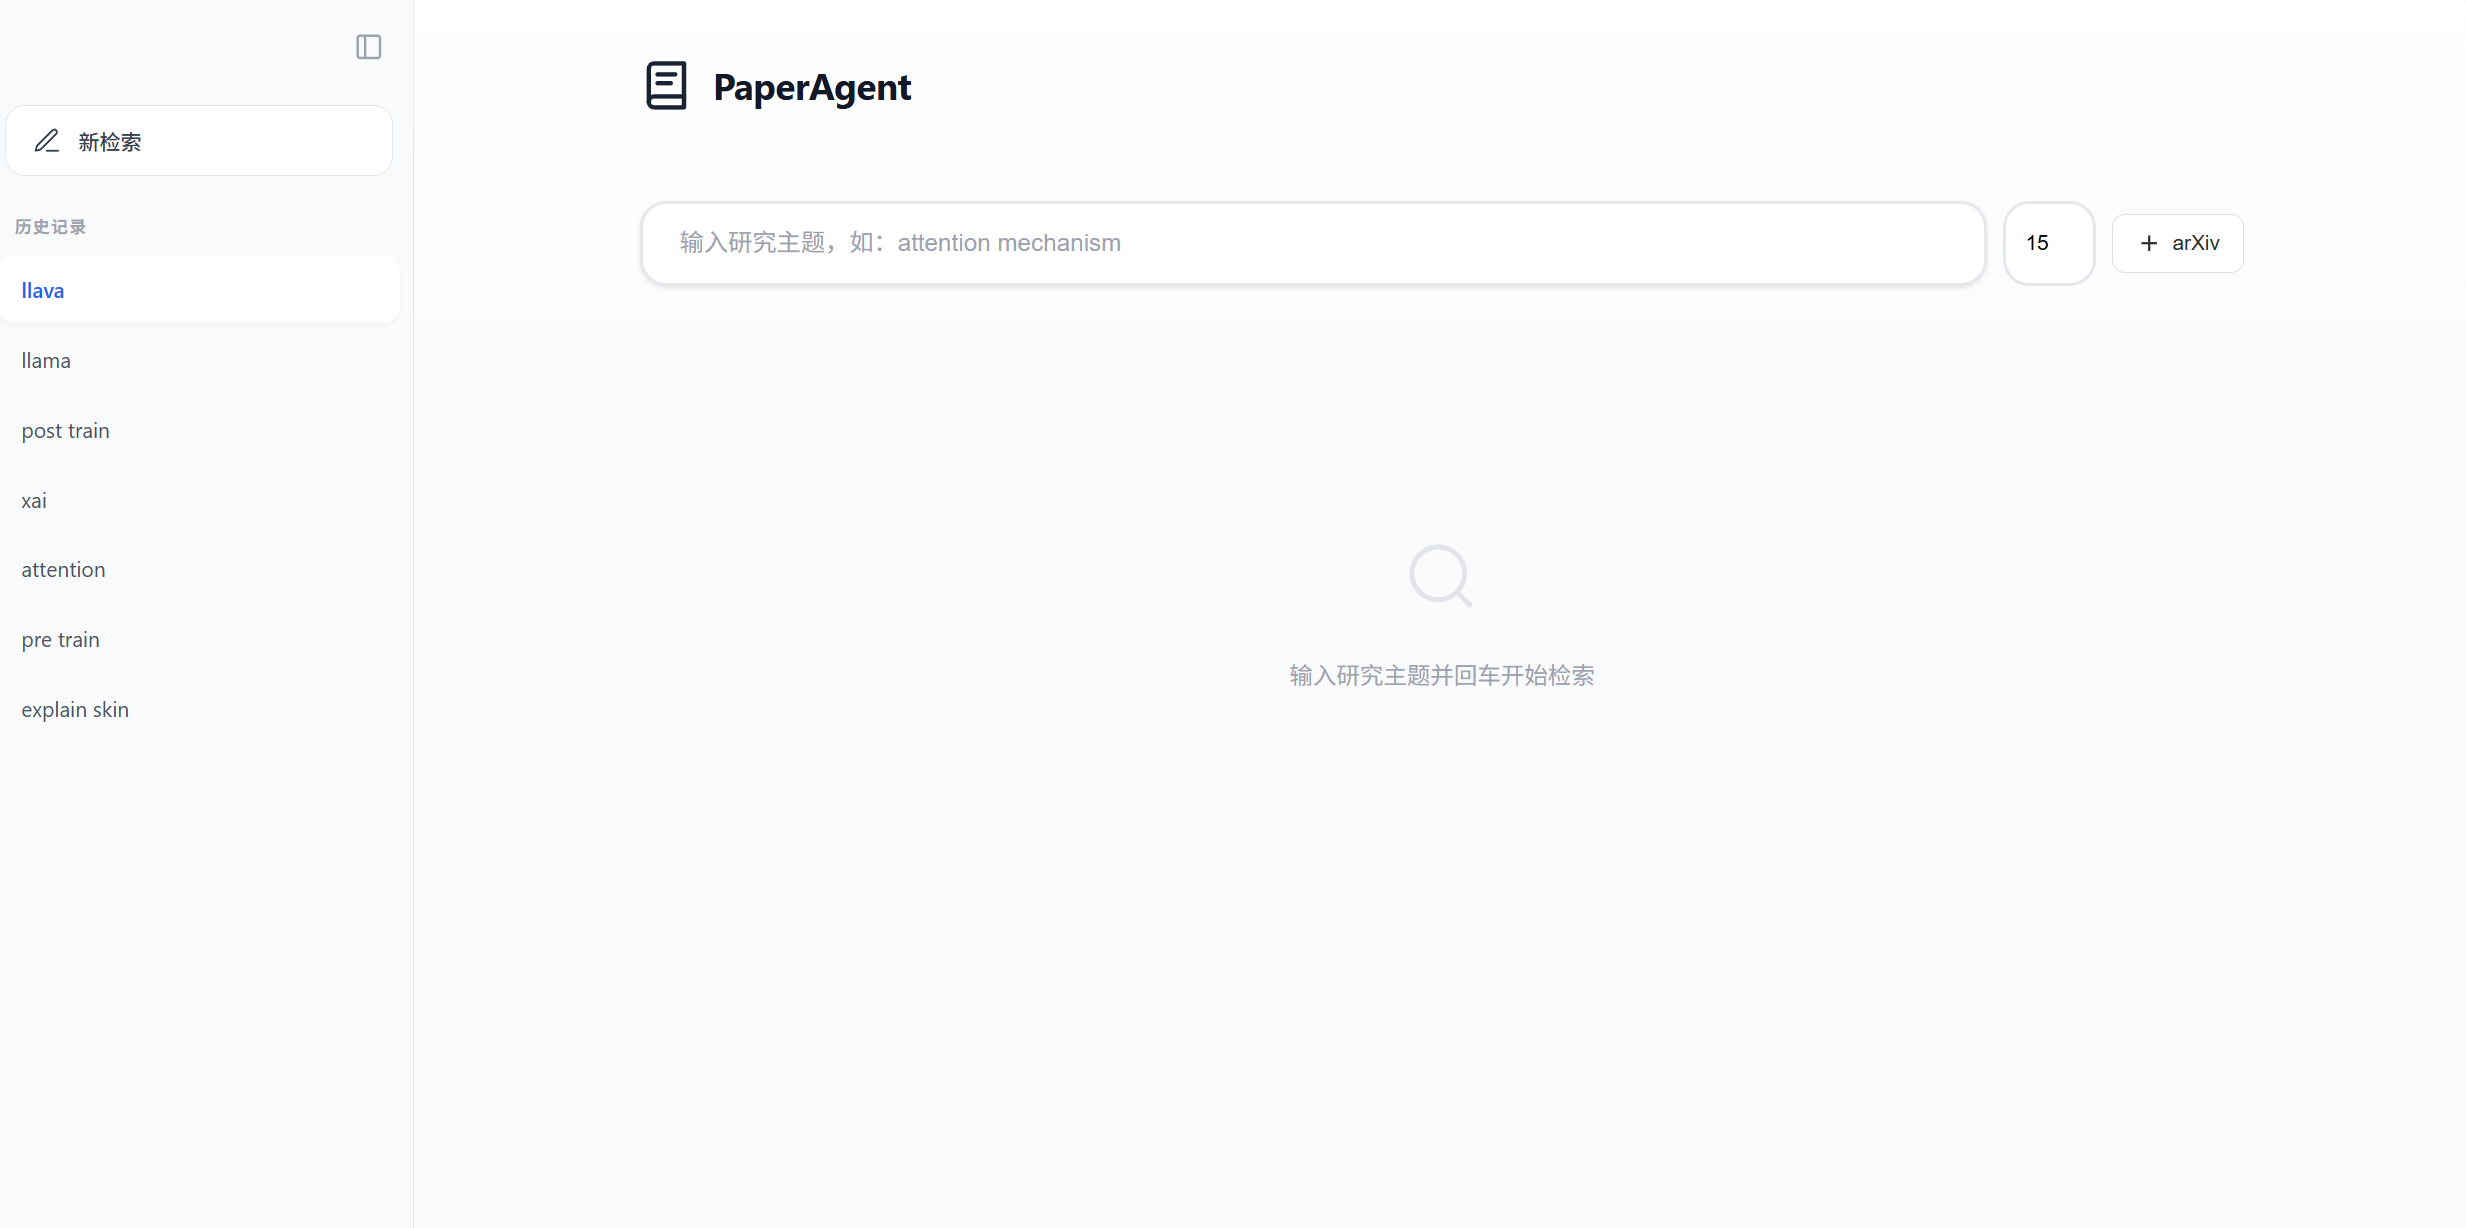
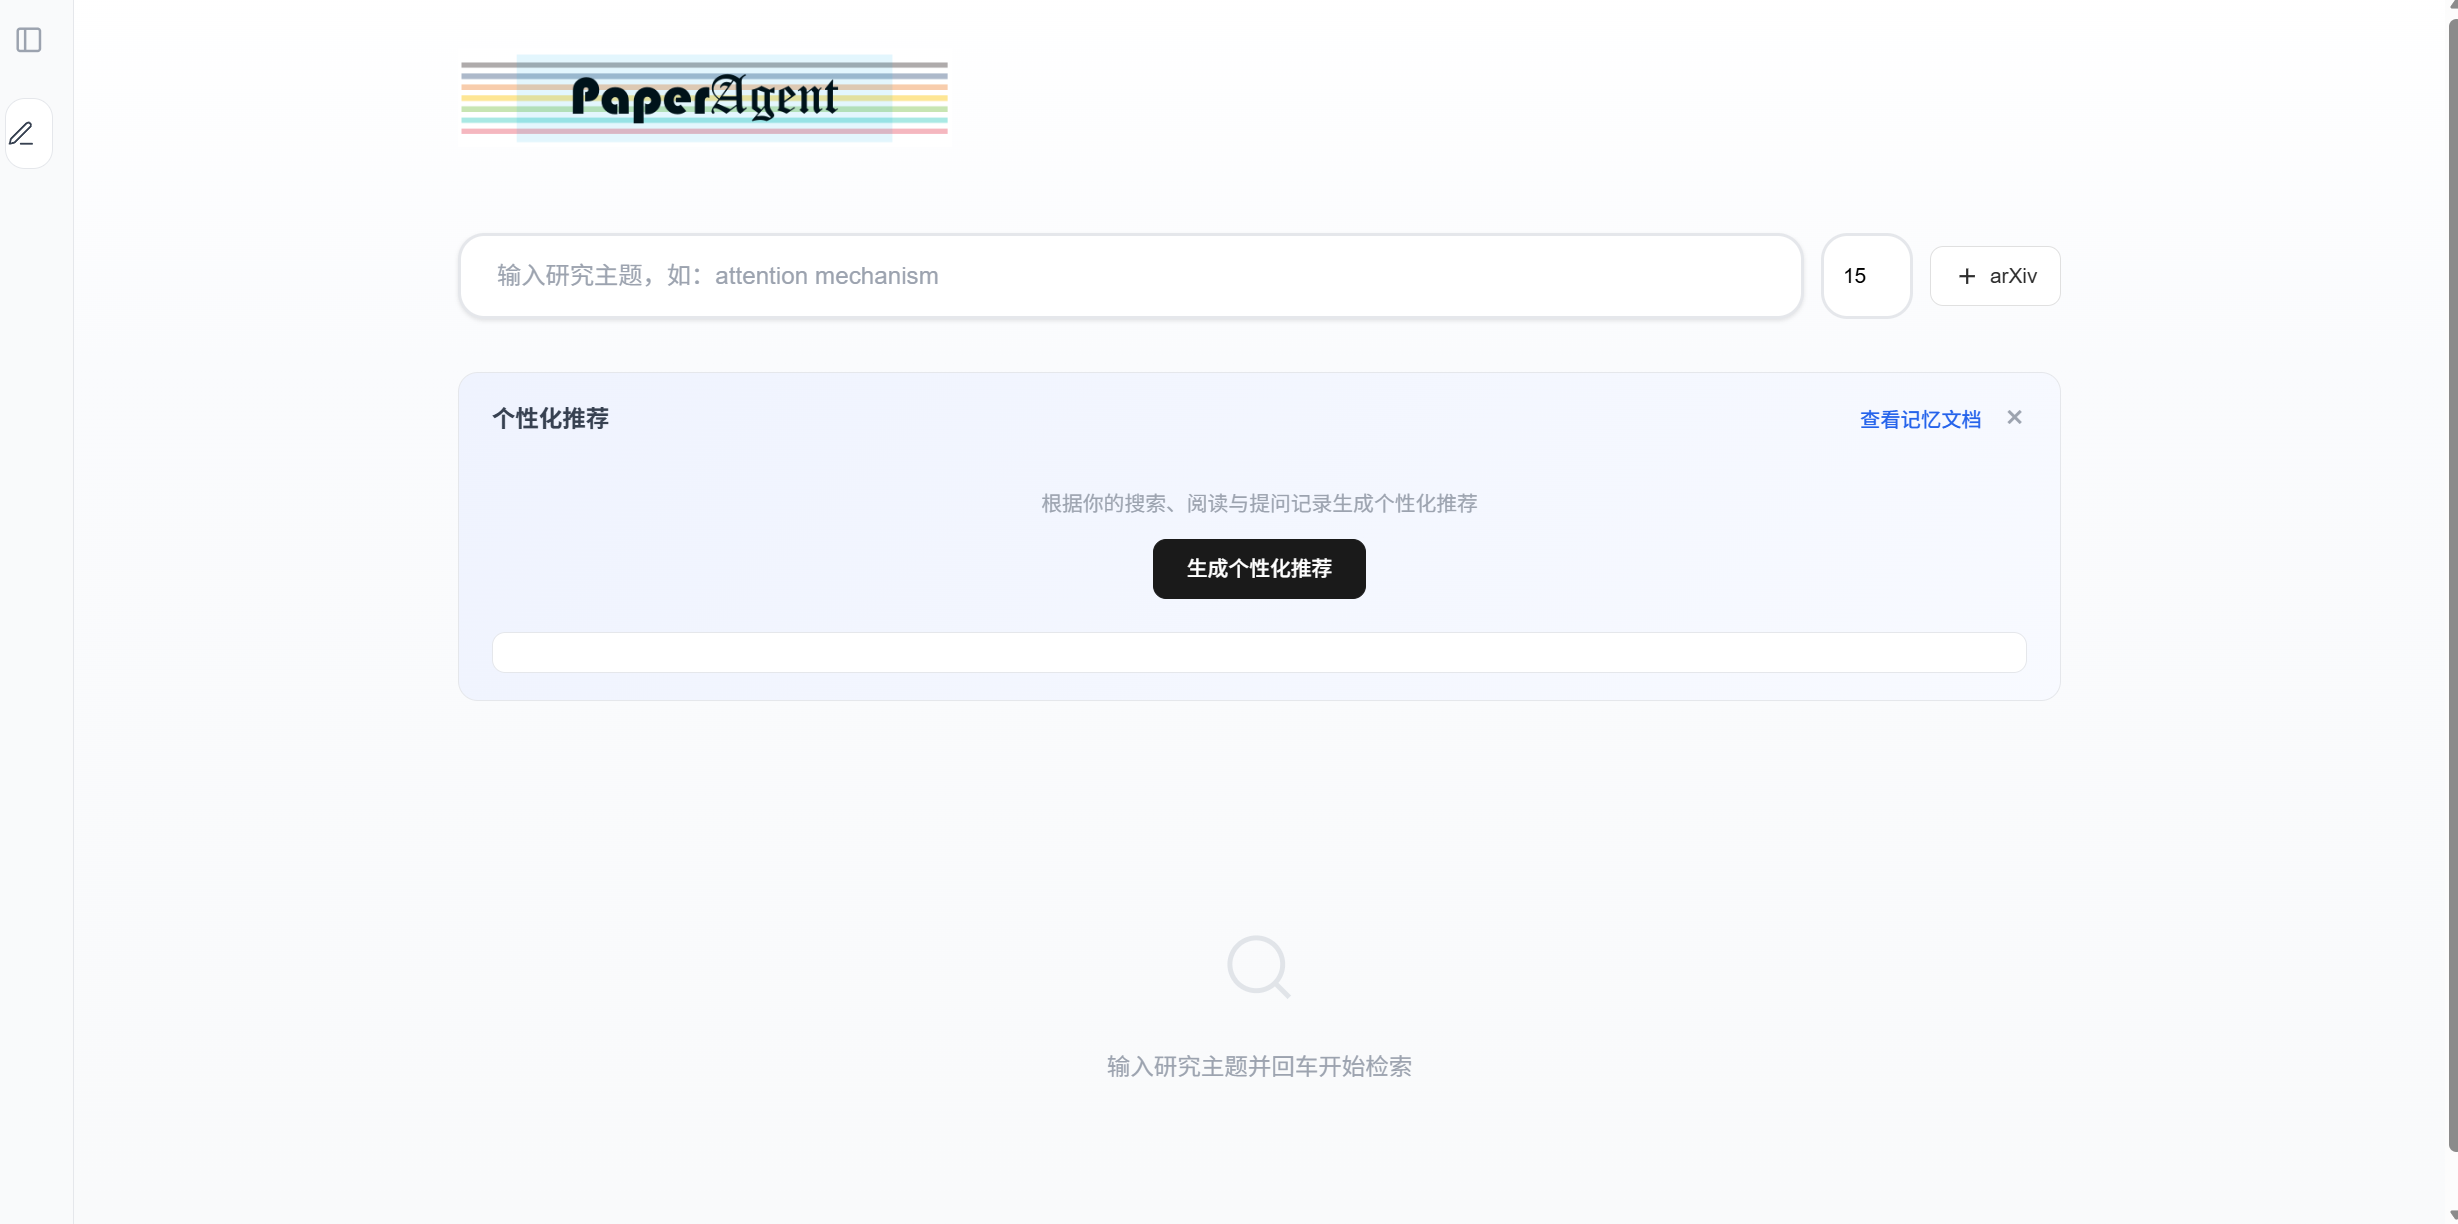
update asset and fix recommend interaction logic

diff --git a/web/static/js/app.js b/web/static/js/app.js
@@ -102,6 +102,7 @@
     const recPanel = $("recommend-panel"), recClose = $("recommend-close");
     const recContent = $("recommend-content"), recKeywords = $("recommend-keywords");
     const recMemory = $("recommend-memory"), memToggle = $("memory-toggle");
+    const recEmpty = $("recommend-empty"), recGenBtn = $("recommend-gen-btn");
     const pl = $("paper-list"), es = $("empty-state"), st = $("stats"), sp = $("stat-papers");
     const sc = $("subtopics-container");
     const sbar = $("search-sidebar"), sbt = $("sidebar-toggle-btn");
@@ -771,11 +772,22 @@
         }
     }
 
+    function showRecommendIdle() {
+        recPanel.style.display = "";
+        recMemory.style.display = "none";
+        memToggle.textContent = "查看记忆文档";
+        recKeywords.innerHTML = "";
+        recContent.innerHTML = "";
+        recEmpty.style.display = "";
+    }
+
     async function doRecommend() {
         recPanel.style.display = "";
         recMemory.style.display = "none";
         memToggle.textContent = "查看记忆文档";
         recKeywords.innerHTML = "";
+        recEmpty.style.display = "none";
+        recGenBtn.disabled = true;
         recContent.innerHTML = '<div style="color:#98a2b3">正在生成个性化推荐...</div>';
         try {
             const r = await fetch("/api/recommend", { method: "POST" });
@@ -784,6 +796,8 @@
             renderRecommendation(data.recommendation || "(暂无推荐)");
         } catch (e) {
             recContent.innerHTML = `<div style="color:#dc2626">${escapeHtml(e.message || "推荐失败")}</div>`;
+        } finally {
+            recGenBtn.disabled = false;
         }
     }
 
@@ -807,6 +821,7 @@
 
     recClose.addEventListener("click", () => { recPanel.style.display = "none"; });
     memToggle.addEventListener("click", toggleMemory);
+    recGenBtn.addEventListener("click", doRecommend);
 
     // Sidebar toggle
     sbt.addEventListener("click", () => {
@@ -823,7 +838,7 @@
         es.style.display = "block";
         si.value = "";
         si.focus();
-        doRecommend();
+        showRecommendIdle();
     }
     snew.addEventListener("click", newSearch);
 

diff --git a/web/static/css/style.css b/web/static/css/style.css
@@ -508,6 +508,13 @@ body {
     border: 1px solid var(--accent); transition: background .15s, color .15s;
 }
 .recommend-kw:hover { background: var(--accent); color: #fff; }
+.recommend-empty {
+    display: flex; flex-direction: column; align-items: center; gap: 12px;
+    padding: 20px 16px; text-align: center;
+}
+.recommend-empty-hint { font-size: .84rem; color: var(--gray-400); }
+.recommend-gen-btn { padding: 8px 20px; }
+.recommend-gen-btn:disabled { opacity: .6; cursor: not-allowed; }
 .recommend-body {
     font-size: .86rem; line-height: 1.75; color: var(--gray-700);
     background: #fff; border: 1px solid var(--gray-200); border-radius: 8px; padding: 12px 16px;

diff --git a/web/templates/index.html b/web/templates/index.html
@@ -63,6 +63,10 @@
                     </div>
                 </div>
                 <div class="recommend-memory" id="recommend-memory" style="display:none"></div>
+                <div class="recommend-empty" id="recommend-empty">
+                    <span class="recommend-empty-hint">根据你的搜索、阅读与提问记录生成个性化推荐</span>
+                    <button class="btn btn-primary recommend-gen-btn" id="recommend-gen-btn">生成个性化推荐</button>
+                </div>
                 <div class="recommend-keywords" id="recommend-keywords"></div>
                 <div class="recommend-body" id="recommend-content"></div>
             </div>